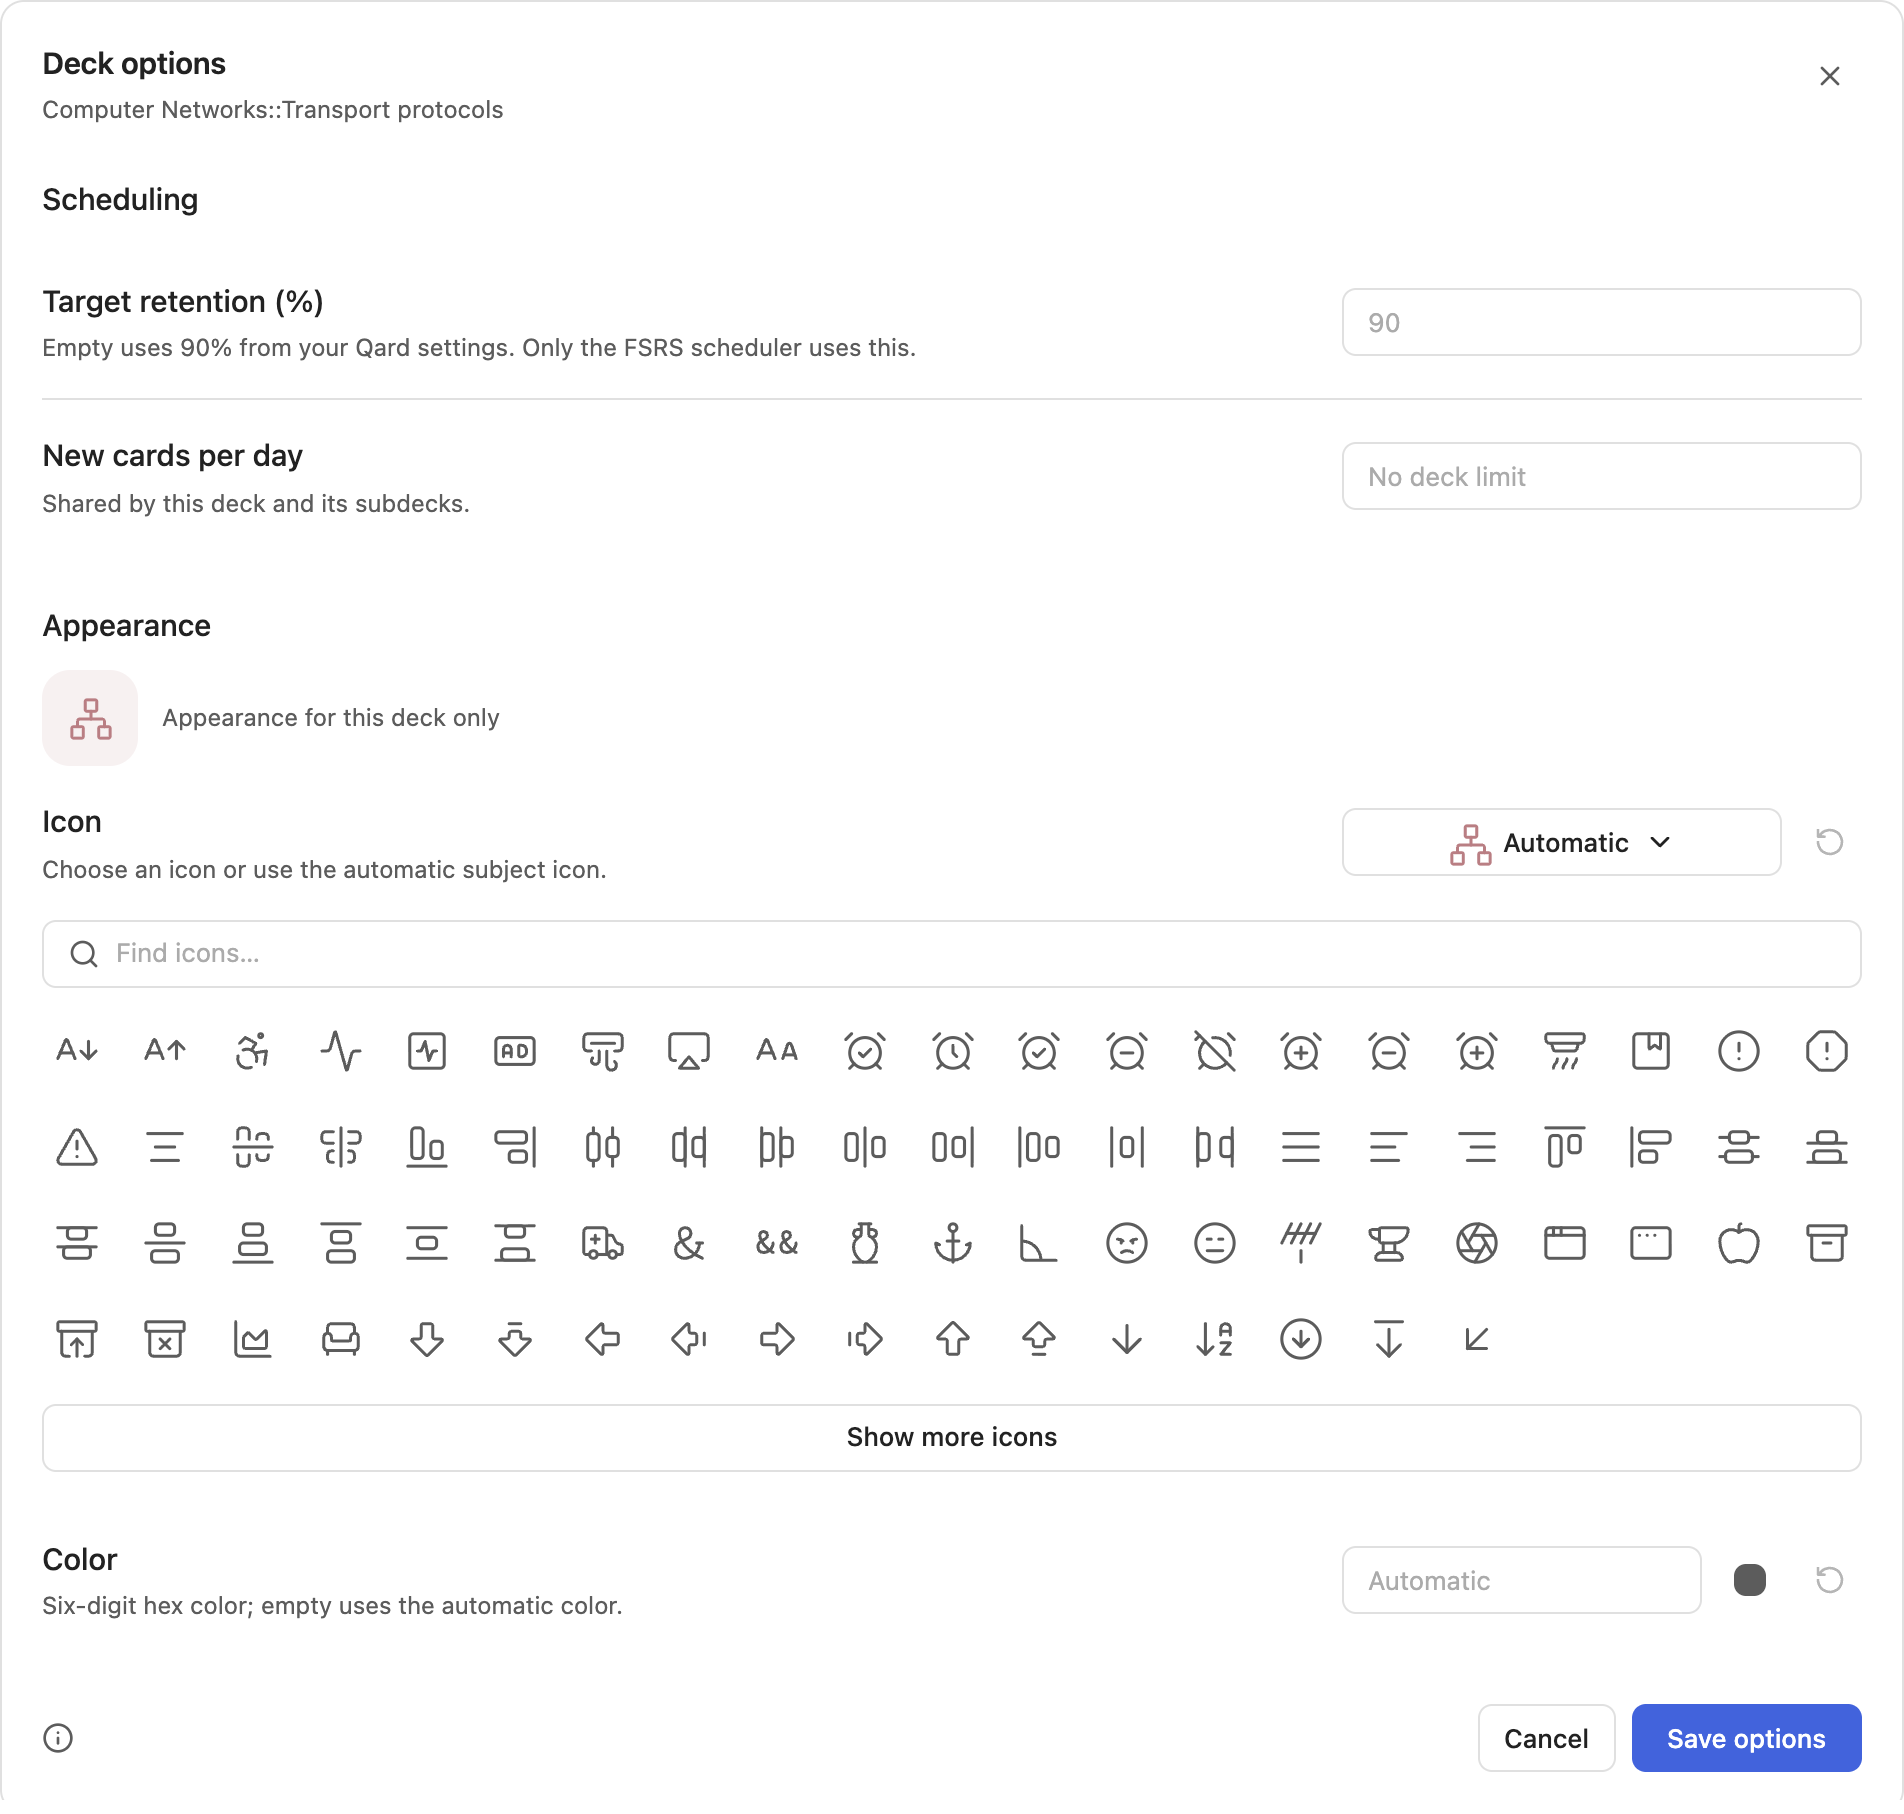
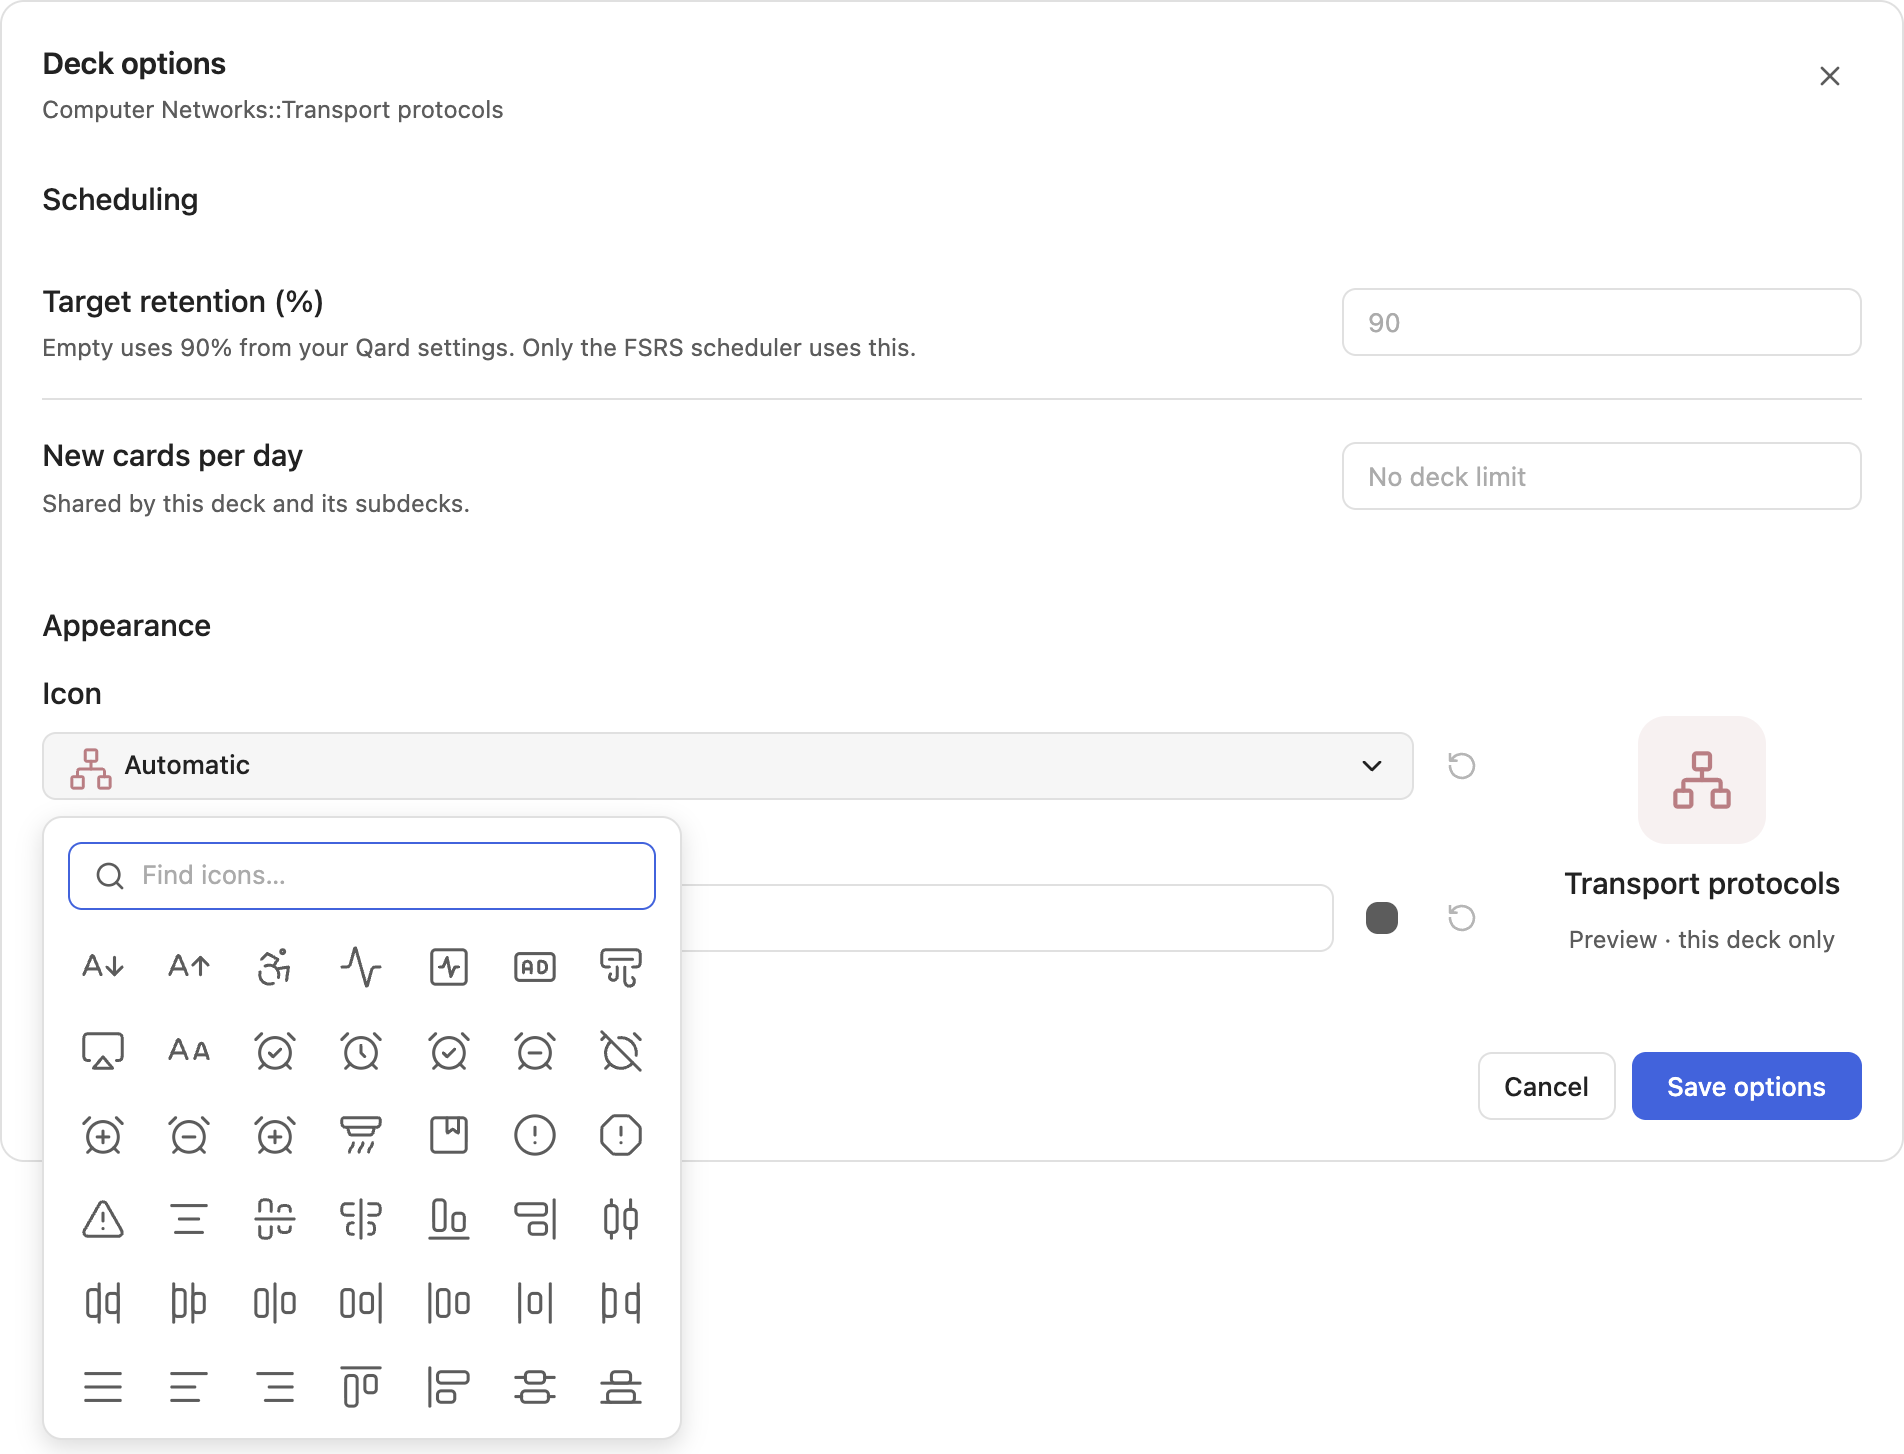
Refresh upstream settings and UI screenshot comparisons

diff --git a/docs/images/ui-main-latest/audit-report.md b/docs/images/ui-main-latest/audit-report.md
@@ -1,3 +1,17 @@
+# Upstream appearance section and compact icon dropdown
+
+Upstream #10 source `357627e44614afa63506fdb3ce4f58faaf3ee782` → upstream #17 source `b2dab86fdcd8d0ecb98d5c210b9472cd21ca1348`. All fork PRs are retired; no fork PR is part of the dependency workflow.
+
+- One shared DeckAppearance component in both branches: explicit Appearance header, controls on left and live badge/name preview on right; below 480px available section width, preview becomes a compact row below controls.
+- Dropdown is at most 320px wide with a 240px scrolling icon grid, search and every registered icon. Pagination removed. Outside-click and Escape dismiss it; selection returns to the trigger. Installed icon packs, unavailable saved IDs, exact scheduling values and independent automatic resets retain existing behavior.
+- Focus is indicated on the search container, without an extra input outline. Preview retains its deck color. Capture framing includes the dropdown beyond panel bounds.
+- #10 passed full npm run check:800 tests/96 files. #17 passed full check:811 tests/96 files.24 browser cases across both variants, both themes and320/390/480/640/1000/1440px all passed. Tests cover all2110 fixture icons, grid scrolling, dropdown width, responsive preview, selection/reset and empty search. No new test cases or files.
+- Shared picker passed native isolated Obsidian SVG/select/cancel smoke. Protected DevBook/global files remain unchanged.
+- Main-to-latest screenshots refreshed in both upstream descriptions. Removed the obsolete incremental appearance comparison from #17:52 pairs remain, with max3 examples per group. #10 has2 main-to-latest pairs.
+- Commit ancestry and upstream compare link form #10→#17. Both GitHub base refs stay main: no upstream branch-write rights; GitHub requires PR base branches in the destination repository. Upstream maintainers can create a settings base branch if they want literal base retargeting. After #10 merges, integrate upstream main into #17 before merging it, including after a squash merge.
+
+## Prior verification
+
 # Deck appearance stack and shared settings controls
 
 Source `e132cacc42c49bc79a341b33e4449af236f5c648` includes deck appearance dependency `23c7c26dbf82773dd1d088150006e65d6d049775` (upstream #10).
